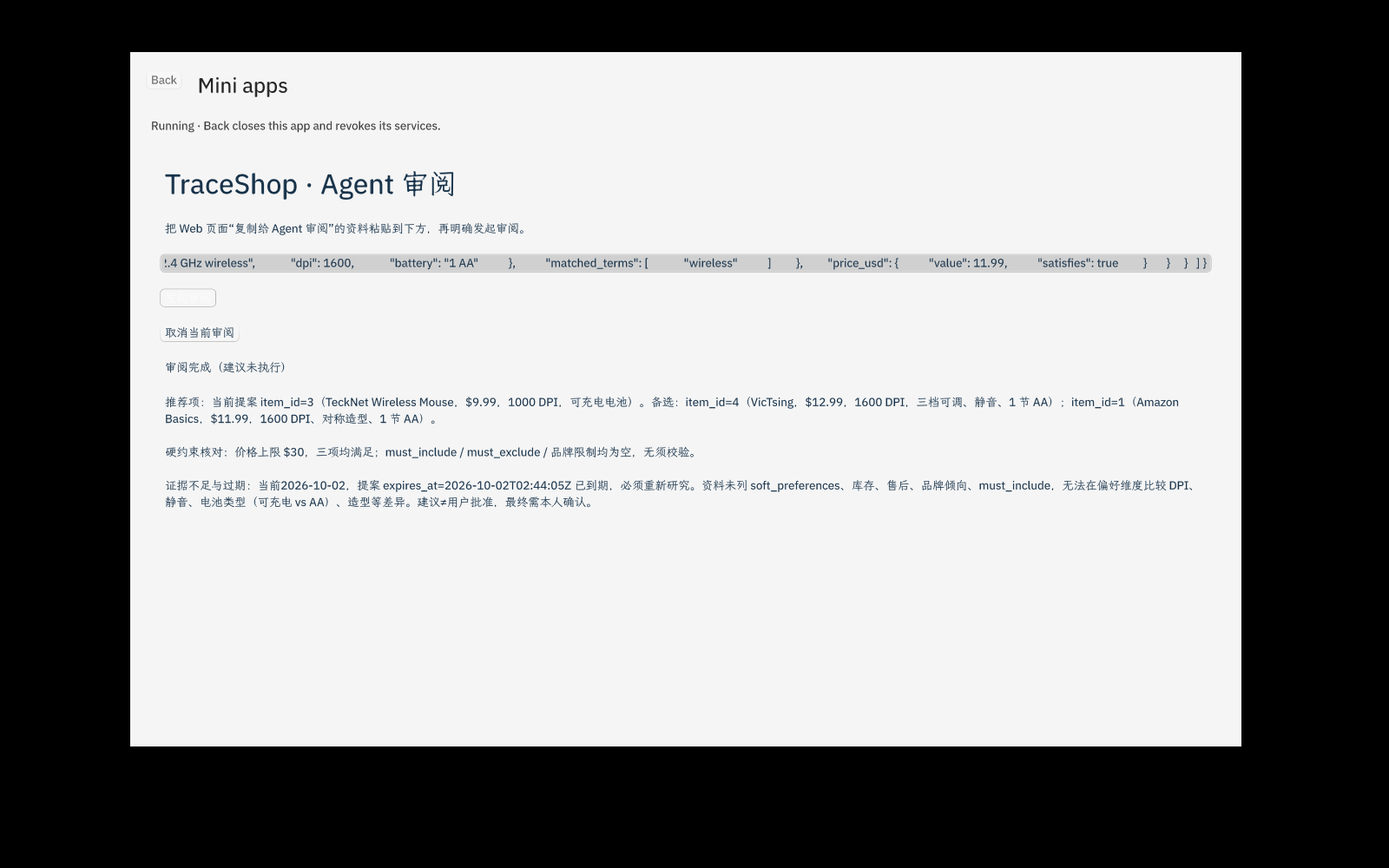
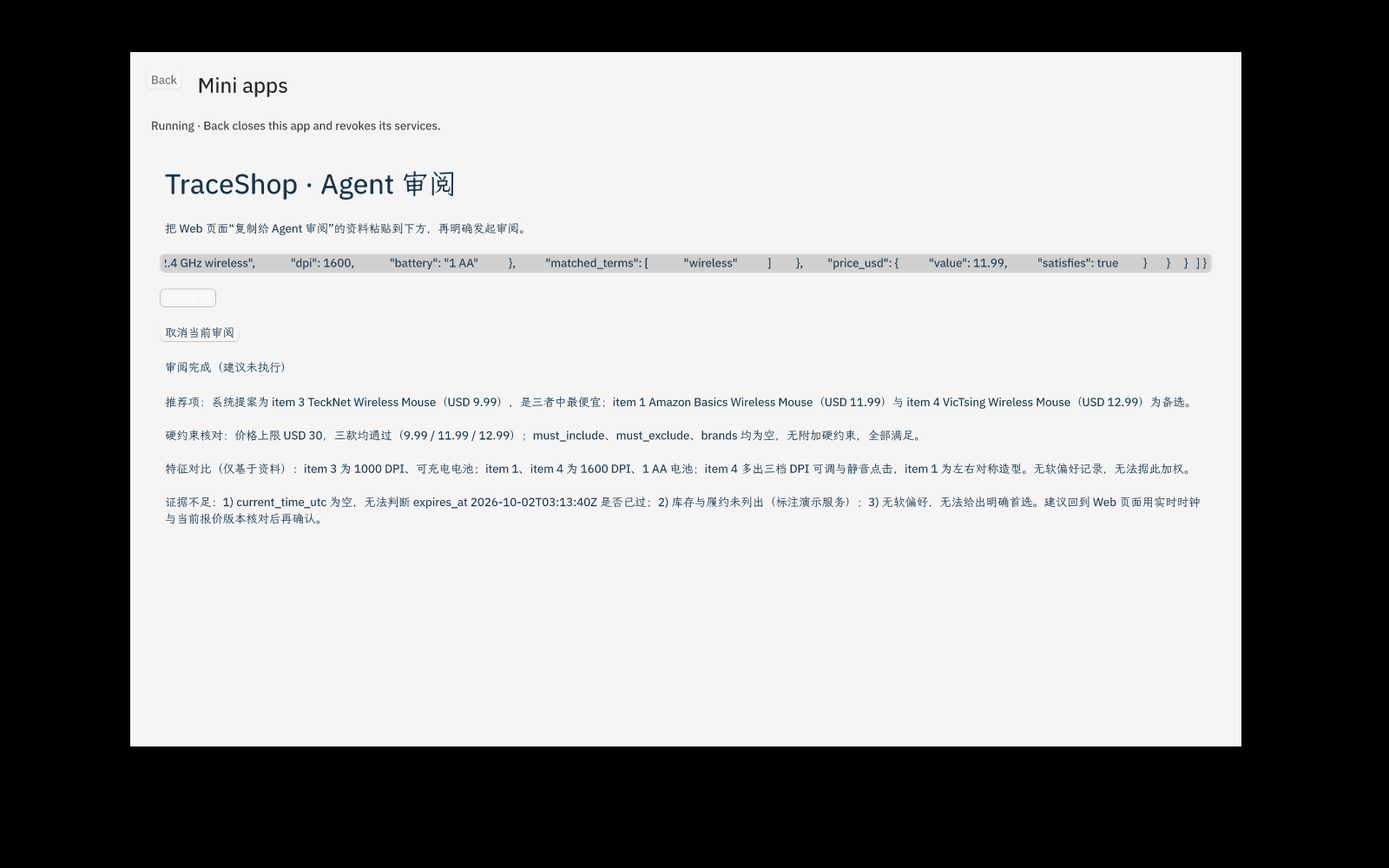
Clarify review timestamps and unset shopping constraints

Changed region(s): [[0.125, 0.434, 0.875, 0.62], [0.375, 0.434, 0.8438, 0.465]]

diff --git a/shop_agent/static/app.js b/shop_agent/static/app.js
@@ -219,6 +219,11 @@
     return data.proposal;
   }
 
+  function utcSecondsIso(epochSeconds) {
+    if (typeof epochSeconds !== "number" || !isFinite(epochSeconds)) return null;
+    return new Date(Math.floor(epochSeconds) * 1000).toISOString().replace(".000Z", "Z");
+  }
+
   function agentReviewExport() {
     var p = agentReviewableProposal();
     if (!p) return null;
@@ -250,6 +255,11 @@
         item_id: p.item_id,
         price_usd: p.price_usd,
         expires_at: p.expires_at_iso
+      },
+      time_context: {
+        proposal_created_at_utc: utcSecondsIso(p.created_at),
+        current_time_utc: null,
+        note: "proposal_created_at_utc 是提案创建时间，不是当前时间；有效期与价格必须回到 Web 页面用实时时钟和当前报价版本核对。"
       },
       candidates: candidates
     };

diff --git a/SUBMISSION.md b/SUBMISSION.md
@@ -10,16 +10,16 @@
 
 ## 一句话
 
-一个证据驱动、可确认、可读回的购物决策 Web 原型：把文字需求变成候选研究、硬约束过滤、可审阅的采购提案、用户明确确认、本地 SQLite 草稿写入与独立读回；报价或库存变化会让旧提案失效并强制重新研究。规则型决策，不产生真实订单。v0.2.0 另附一个**可选、只给建议**的 Rinx 本地 Agent 审阅包。
+一个证据驱动、可确认、可读回的购物决策 Web 原型：把文字需求变成候选研究、硬约束过滤、可审阅的采购提案、用户明确确认、本地 SQLite 草稿写入与独立读回；报价或库存变化会让旧提案失效并强制重新研究。规则型决策，不产生真实订单。v0.2.1 另附一个**可选、只给建议**的 Rinx 本地 Agent 审阅包。
 
 ## 固定版本与一条命令启动
 
-固定源码版本：**v0.2.0**。它保留 v0.1.1（提交 `dcf40f3c`）的确定性 Web 工作流，新增 Web 的“复制给 Agent 审阅”入口、[`native/agent-review/`](native/agent-review/) 导入包与原生实测证据；Web 核心逻辑不变。
+固定源码版本：**v0.2.1**。它保留 v0.1.1（提交 `dcf40f3c`）的确定性 Web 工作流，以及 v0.2.0 新增的“复制给 Agent 审阅”入口与 [`native/agent-review/`](native/agent-review/) 导入包；v0.2.1 在 Web 导出中加入提案创建时间 `time_context.proposal_created_at_utc`（UTC、秒）并显式标注 `current_time_utc: null`，同时修正原生审阅提示对创建/截止/当前时间与空数组的表述。Web 决策与后端逻辑不变。
 
 需要 Python 3.10 或更新版本，仅使用标准库：
 
 ```bash
-git clone --branch v0.2.0 --depth 1 https://github.com/prettygirlisnotme/TraceShop.git
+git clone --branch v0.2.1 --depth 1 https://github.com/prettygirlisnotme/TraceShop.git
 cd TraceShop
 python3 -m shop_agent.server
 ```
@@ -44,13 +44,14 @@ python3 -m shop_agent.server
 
 ## 可选原生 Agent 审阅
 
-Web 页面在研究会话中提供“复制给 Agent 审阅”。用户把复制出的候选、硬/软约束、证据、报价版本和有效期粘贴进 Rinx 导入的 [`native/agent-review/`](native/agent-review/) 包，由用户点击“发起审阅”，得到宿主 `octos` 的**只读文字建议**；之后仍需回到 Web 由用户自己确认或拒绝。
+Web 页面在研究会话中提供“复制给 Agent 审阅”。用户把复制出的候选、硬/软约束、证据、报价版本、有效期与时间上下文粘贴进 Rinx 导入的 [`native/agent-review/`](native/agent-review/) 包，由用户点击“发起审阅”，得到宿主 `octos` 的**只读文字建议**；之后仍需回到 Web 由用户自己确认或拒绝。
 
[2 lines of base64/hex data omitted]
 
+- 导出含 `time_context`：`proposal_created_at_utc` 是服务端已有的提案创建时间（UTC、秒），`current_time_utc` 显式为 `null`，不伪造当前时钟。审阅提示区分**创建时间、截止时间与当前时间**，并说明空数组表示“用户未设置该项”，不是资料缺失。
 - 这是 **standalone Rinx 自己的本地 Agent peer**，**不是**宿主注入的 OctoSense System Agent，也不是 Web URL 卡片的自动 bridge，未经签名或 App Hub 上架。
 - Web 核心保持确定性、默认零出站；只有用户明确确认才会写入本地草稿，不存在自动批准。
-- 模型建议可能出错：实测中它把一个 02:44:05Z 才到期、且作业运行于 02:28–02:30Z 的提案描述为“已过期”，也把明确为空的字段描述为缺失。这是**建议文本的已知局限**，不是质量或准确率成功。权威判断仍是 Web 的确定性时钟/版本检查。
+- 模型建议仍可能出错：v0.2.1 提示修正后，本次实测不再把未过期提案判为“已过期”，也不再把明确为空的字段说成缺失，回复还提示用户回 Web 用实时时钟与报价版本核对后再确认。但这是**单次用例改善，不是稳定的准确率成功**，且回复仍长于请求的 300 字。权威判断始终是 Web 的确定性时钟/版本检查。历史 v0.2.0 的误判保留在[不可变标签](https://github.com/prettygirlisnotme/TraceShop/blob/v0.2.0/evidence/agent-review-checks.json)。
 
 证据：[原生审阅结果](evidence/agent-review-result.png) · [assistant 关闭的真实错误](evidence/agent-review-off.png) · [导出截图](evidence/agent-review-export.png) · [浏览器导出检查 JSON](evidence/agent-review-browser-checks.json) · [原生审阅 aggregate JSON](evidence/agent-review-checks.json)。
 
@@ -83,8 +84,8 @@ Web 卡片使用 `rs.robius.robrix.mini_app` 消息类型，内容示例见 [dem
 
 ## 验证证据
 
-- 原生 Agent 审阅（作业 **180045**，2026-10-02，CPU-only，约 2 分钟，COMPLETED 0:0）：固定 Rinx SHA-256 `60431b16…29a720` 与固定 `octos` 内核；Web 导出字段逐项匹配、复制不新增草稿；原生导入 stamped bundle、能力与无 room 校验、assistant OFF 真实错误、本机 provider 下 `session.open`/`turn.start` 真实回调完成、源码与锁未改。脱敏 aggregate 见 [evidence/agent-review-checks.json](evidence/agent-review-checks.json)。汇总见 [docs/VALIDATION.md](docs/VALIDATION.md)。
-- 公开目录复验（作业 **180053**，2026-10-02，CPU-only，6 秒，COMPLETED 0:0）：对 **v0.2.0 公开检出**以 `python -I -S -B` 运行标准库 11 项检查与回环 HTTP 闭环（研究 / 显式确认 / 独立读回 / 幂等 / 拒绝 409 / 报价变化 409），全部通过。见 [evidence/public-checks.json](evidence/public-checks.json)。此前 v0.1.1 的同一复验为作业 **178861**（2026-10-01，12 秒），结果一致。
+- 原生 Agent 审阅（作业 **180063**，2026-10-02，v0.2.1，CPU-only，1 分 52 秒，COMPLETED 0:0）：沿用未修改的固定 Rinx SHA-256 `60431b16…29a720` 与固定 `octos` 内核（`2.0.3-rc.13`）；Web 导出字段逐项匹配并新增 `time_context` 检查（`export_time_context_created_matches`、`export_time_context_current_null`）、复制不新增草稿；原生导入 stamped bundle `0.2.1`、能力与无 room 校验、assistant OFF 真实错误、本机 provider 下 `session.open`/`turn.start` 真实回调完成、源码与锁未改。脱敏 aggregate 见 [evidence/agent-review-checks.json](evidence/agent-review-checks.json)。此前同组合的 v0.2.0 运行为作业 180045。汇总见 [docs/VALIDATION.md](docs/VALIDATION.md)。
+- 公开目录复验（作业 **180053**，2026-10-02，CPU-only，6 秒，COMPLETED 0:0）：对 **v0.2.0 公开检出**以 `python -I -S -B` 运行标准库 11 项检查与回环 HTTP 闭环（研究 / 显式确认 / 独立读回 / 幂等 / 拒绝 409 / 报价变化 409），全部通过。v0.2.1 仅改 Web 导出与原生包、后端与 `vendor/` 未变，故沿用该基线，未新跑单元作业。见 [evidence/public-checks.json](evidence/public-checks.json)。此前 v0.1.1 的同一复验为作业 **178861**（2026-10-01，12 秒），结果一致。
 - 私有集群宿主工作流实测（作业 **178695**）：固定旧宿主独立编译，私有回环合成 fixture，10 项结构化检查通过。见 [evidence/workflow-checks.json](evidence/workflow-checks.json)。
 - 汇总说明：[docs/VALIDATION.md](docs/VALIDATION.md)。
 

diff --git a/README.md b/README.md
@@ -2,7 +2,7 @@
 
 购物决策与回执小程序。输入需求后，比较候选商品和目录证据；确认后保存采购草稿，读回核对结果，再由用户把回执带回聊天。报价或库存发生变化时，旧提案失效，需要重新研究和确认。
 
-> **初赛作品入口：[SUBMISSION.md](SUBMISSION.md)** — 场景、任务、固定版本、材料链接、验证证据与已知边界。当前材料版本 v0.2.0。
+> **初赛作品入口：[SUBMISSION.md](SUBMISSION.md)** — 场景、任务、固定版本、材料链接、验证证据与已知边界。当前材料版本 v0.2.1。
 
 - 队伍：**TraceShop**
 - 唯一成员 ID：**TraceShop-Felix**（微信群昵称）
@@ -14,7 +14,7 @@
 需要 Python 3.10 或更新版本，仅使用标准库。Web 核心保持确定性，不发起出站请求。
 
 ```bash
-git clone --branch v0.2.0 --depth 1 https://github.com/prettygirlisnotme/TraceShop.git
+git clone --branch v0.2.1 --depth 1 https://github.com/prettygirlisnotme/TraceShop.git
 cd TraceShop
 python3 -m shop_agent.server
 ```
@@ -42,13 +42,15 @@ python3 -m unittest discover -s tests -v
 
 Web 卡片使用 `rs.robius.robrix.mini_app` 消息类型。[消息示例](demo/robrix2-card.example.json)与[复现步骤](docs/REPRODUCING.md)说明如何在兼容宿主打开本机地址。
 
-官网示例链接的历史宿主提交 `05daf9bdb05fafc6d8f04dcb312a35f1d46a661e` 已在 Linux 测试：发送卡片、打开应用、确认草稿、读回、复制，再通过宿主发送回执。浏览器使用透明的 headless URL 打开器适配器；截图和浏览器录像分别提供。11 项标准库检查与 10 项宿主工作流检查通过，v0.2.0 公开检出复验（作业 180053）也通过，详见[验证记录](docs/VALIDATION.md)。
+官网示例链接的历史宿主提交 `05daf9bdb05fafc6d8f04dcb312a35f1d46a661e` 已在 Linux 测试：发送卡片、打开应用、确认草稿、读回、复制，再通过宿主发送回执。浏览器使用透明的 headless URL 打开器适配器；截图和浏览器录像分别提供。11 项标准库检查与 10 项宿主工作流检查通过；v0.2.0 公开检出复验（作业 180053，11 项检查 + HTTP）也通过。v0.2.1 只改 Web 导出与原生审阅包，后端与 `vendor/` 未变，故沿用该单元基线。详见[验证记录](docs/VALIDATION.md)。
 
-## 可选原生 Agent 审阅（v0.2.0）
+## 可选原生 Agent 审阅（v0.2.1）
 
-固定 Rinx（`5a9e2af`）与官方打包的 `octos`（`2.0.3-rc.13`）已在受限测试环境实测：Discover → Mini apps → Import 导入 [`native/agent-review/`](native/agent-review/)（stamped bundle **0.2.0**，BLAKE3 `41410f5e…`），Review 仅显示 `octos.session.open`、`octos.turn.start`、`octos.turn.interrupt` 且无 room。Run 后由用户手动粘贴 Web 导出的候选/约束/证据/报价版本/有效期；assistant 关闭时显示真实宿主错误，配置本机 provider 后 `session.open` 与 `turn.start` 经真实 Splash 回调返回非空建议，终态标签为“审阅完成（建议未执行）”。证据：[结果](evidence/agent-review-result.png) · [assistant 关闭](evidence/agent-review-off.png) · [导出](evidence/agent-review-export.png) · [浏览器导出检查](evidence/agent-review-browser-checks.json)。
+固定 Rinx（`5a9e2af`）与官方打包的 `octos`（`2.0.3-rc.13`）已在受限测试环境实测：Discover → Mini apps → Import 导入 [`native/agent-review/`](native/agent-review/)（stamped bundle **0.2.1**，BLAKE3 `3051f8f0…`），Review 仅显示 `octos.session.open`、`octos.turn.start`、`octos.turn.interrupt` 且无 room。Run 后由用户手动粘贴 Web 导出的候选/约束/证据/报价版本/有效期；assistant 关闭时显示真实宿主错误，配置本机 provider 后 `session.open` 与 `turn.start` 经真实 Splash 回调返回非空建议，终态标签为“审阅完成（建议未执行）”。证据：[结果](evidence/agent-review-result.png) · [assistant 关闭](evidence/agent-review-off.png) · [导出](evidence/agent-review-export.png) · [浏览器导出检查](evidence/agent-review-browser-checks.json)。
 
-这是 **standalone Rinx 自己的本地 Agent peer**：不是宿主注入的 OctoSense System Agent，不是 Web URL 卡片的自动 bridge，未经签名或 App Hub 上架。Web 核心保持确定性、默认零出站；只有用户在 Web 明确确认才会写入本地草稿，Agent 建议不会自动批准。模型建议仅为文本，可能出现错误（实测中它把未过期的提案描述为已过期，也把明确为空的字段描述为缺失）；权威判断仍是 Web 的确定性有效期与版本检查。
+**时间上下文**：v0.2.1 的导出新增 `time_context`。`proposal_created_at_utc` 取服务端已有的提案创建时间（UTC、秒），`current_time_utc` 显式为 `null`——不伪造当前时钟。审阅提示区分**创建时间、截止时间与当前时间**，并说明空数组表示“用户未设置该项”，不是资料缺失。请勿把创建时间或 `expires_at` 当作当前时间。
+
+这是 **standalone Rinx 自己的本地 Agent peer**：不是宿主注入的 OctoSense System Agent，不是 Web URL 卡片的自动 bridge，未经签名或 App Hub 上架。Web 核心保持确定性、默认零出站；只有用户在 Web 明确确认才会写入本地草稿，Agent 建议不会自动批准。模型建议仅为文本，仍可能出错；权威判断是 Web 的确定性有效期与版本检查。v0.2.1 提示修正后，本次实测不再把未过期提案判为已过期，也不再把空数组说成缺失——这是单次用例改善，不等于稳定的模型准确率（见[历史 v0.2.0 误判记录](https://github.com/prettygirlisnotme/TraceShop/blob/v0.2.0/evidence/agent-review-checks.json)）。
 
 宿主与内核二进制需另外准备，不在 TraceShop 源码包中。
 

diff --git a/docs/VALIDATION.md b/docs/VALIDATION.md
@@ -3,17 +3,19 @@
 本仓库区分几类证据：随包可自行运行的标准库检查、公开检出目录的复验、交付包在隔离环境中的验收、
 私有集群内的宿主工作流实测，以及可选的 Rinx 原生 Agent 审阅。它们证明的范围不同，不能互相替代。
 
-## 1. 原生 Agent 审阅（作业 180045，2026-10-02）
+## 1. 原生 Agent 审阅（作业 180063，2026-10-02，v0.2.1）
 
-CPU-only，约 2 分钟，COMPLETED 0:0。使用**未修改**的固定 Rinx（`5a9e2af`，二进制 SHA-256
+CPU-only，1 分 52 秒（112 秒），COMPLETED 0:0。使用**未修改**的固定 Rinx（`5a9e2af`，二进制 SHA-256
[1 lines of base64/hex data omitted]
 内核（`fe08d8e…`，`2.0.3-rc.13`），真实浏览器导出与原生 Rinx 导入在同一次作业内闭环：
 
 - 浏览器导出检查：研究 200、复制不新增草稿、导出字段逐项匹配（候选 3 条、硬/软约束、报价版本、
-  有效期）、报价变化后旧导出被清除、新研究可再导出、无禁止字段、无页面错误
+  有效期），并新增 `time_context` 校验——`proposal_created_at_utc` 与服务端一致、`current_time_utc`
+  为 `null`（`export_time_context_created_matches`、`export_time_context_current_null`）；报价变化后
+  旧导出被清除、新研究可再导出、无禁止字段、无页面错误
   （[agent-review-browser-checks.json](../evidence/agent-review-browser-checks.json)）。
-- 原生导入：stamped bundle `0.2.0`（BLAKE3
[1 lines of base64/hex data omitted]
+- 原生导入：stamped bundle `0.2.1`（BLAKE3
[1 lines of base64/hex data omitted]
   `octos.session.open`、`octos.turn.start`、`octos.turn.interrupt`，无 room。
 - assistant 关闭时返回真实宿主错误 `The assistant is off. Choose this device or a server in the assistant settings.`
 - 经真实宿主 UI 配置本机 provider（CN `minimax-cn`，`MiniMax-M3`）后，`session.open` 与 `turn.start`
@@ -23,8 +25,14 @@ CPU-only，约 2 分钟，COMPLETED 0:0。使用**未修改**的固定 Rinx（`5
   [agent-review-checks.json](../evidence/agent-review-checks.json)。
 
 **边界**：这是 standalone Rinx 的本地 Agent peer，不是宿主注入的 OctoSense System Agent，也不是 Web
-的自动 bridge；未经签名或 App Hub 上架。模型建议可能出现错误（本次把未过期提案描述为已过期，也把空字段
-描述为缺失）；权威判断仍是 Web 的确定性有效期与版本检查。
+的自动 bridge；未经签名或 App Hub 上架。模型建议可能出现错误，权威判断仍是 Web 的确定性有效期与版本
+检查。v0.2.1 提示明确区分创建/截止/当前时间、并说明空数组表示“用户未设置”后，本次回复不再把未过期
+提案判为过期、也不再把空数组说成缺失，并主动提示回 Web 用实时时钟与报价版本核对；但这是**单次用例
+改善，不是稳定的准确率成功**，回复仍长于请求的 300 字。
+
+此前同组合的 v0.2.0 运行为作业 **180045**（2026-10-02，约 124 秒），当时模型把未过期提案描述为“已过期”、
+把空字段描述为缺失。该误判作为历史保留在
+[v0.2.0 的 agent-review-checks.json](https://github.com/prettygirlisnotme/TraceShop/blob/v0.2.0/evidence/agent-review-checks.json)。
 
 ## 2. 公开检出目录复验（作业 180053，2026-10-02）
 
@@ -32,6 +40,9 @@ CPU-only，6 秒，COMPLETED 0:0。对 **v0.2.0 公开目录**使用系统 Pytho
 标准库导入、11 项检查及 HTTP 确认/读回/幂等/拒绝/报价变化路径全部通过；自测服务已停止。摘要见
 [public-checks.json](../evidence/public-checks.json)。同一复验此前也用于 v0.1.1（作业 **178861**，
 2026-10-01，12 秒，结果一致）。
+
+v0.2.1 只改 Web 导出与原生审阅包，后端与 `vendor/` 未变，因此该 11 项检查 + HTTP 基线继续适用；未为
+v0.2.1 新跑单元作业。v0.2.1 改动的 Web 导出与原生路径由作业 **180063** 直接验证（见第 1 节）。
 
 ## 3. 随包标准库检查（任何人可复跑）
 
@@ -71,5 +82,7 @@ python3 -m unittest discover -s tests -v
   主办方受理或晋级结果。
 - 原生 Agent 审阅针对固定 Rinx `5a9e2af` 与固定 `octos`；不承诺最新移动中的 main、Windows 或其它
   未测试平台。
+- 模型建议只是只读文本，仍可能在其它用例出错；180063 的时间/空数组表述改善仅覆盖一次用例，不代表
+  稳定的模型准确率。Web 的确定性时钟与版本检查始终是权威。
 - 「Open in browser」经由透明 headless URL 打开器适配器完成，不是桌面默认 GUI 浏览器。
 - 本包不包含历史目录、模型、数据库、凭据或认证日志；随包目录为自编合成数据。

diff --git a/docs/DEVELOPMENT.md b/docs/DEVELOPMENT.md
@@ -14,7 +14,7 @@
 - `shop_agent/store.py`：`Store` 封装 SQLite。表级操作包括 session、proposal、reservation、quote、
   event；所有读取都经 `_loads`/行映射，写入用参数化 SQL。
 - `shop_agent/static/`：`index.html` + `style.css` + `app.js`，纯前端状态机，调用上述 JSON API；
-  其中“复制给 Agent 审阅”只导出候选/约束/证据/版本/有效期到剪贴板，不调用 `octos`、不创建草稿。
+  其中“复制给 Agent 审阅”把候选/约束/证据/版本/有效期与 `time_context`（提案创建时间 UTC、`current_time_utc` 为 `null`）导出到剪贴板，不调用 `octos`、不创建草稿。
 - `native/agent-review/`：可选的 Rinx 本地导入包（`main.splash` + `manifest.json` + `README.md`），
   与 Web 服务相互独立，不由 `server.py` 加载。
 - `vendor/project_a/`：可复用的 CPU 检索管线（受限解析、硬约束、BM25 排序、证据 guard、可选 CLIP
@@ -50,14 +50,15 @@ python3 -m shop_agent.server                       # 起服务后手动走查
 - Web 决策层是确定性规则策略与受限解析，不是通用 LLM，也不连接任何外部 octos / LLM 服务，默认零出站。
 - 可选的原生 Agent 审阅把用户主动复制的资料发送到**宿主配置的 provider**；它只给建议、不自动批准，
   且为独立 Rinx 本地 peer，未经签名或 App Hub 上架。
-- 模型建议可能出错；Web 的确定性有效期/版本检查才是权威。
+- 模型建议仍可能出错；v0.2.1 提示修正只改善了创建/截止/当前时间与空数组的表述（180063 单次用例），Web 的确定性有效期/版本检查才是权威。
 - 库存/报价变更为演示事件；历史目录价格不是实时报价。
 - 图片入口在后端资源缺失时保持禁用；图片相关性未验证。
 - 公开交付重点是源码与可运行页面；本机回环服务不是公网服务器。
 
 ## 下一步优先级
 
-固定 Rinx `5a9e2af` + 固定 `octos` 的原生审阅已闭环（见 [VALIDATION.md](VALIDATION.md)）。下一个有意义的改进是
-在导出与审阅提示中带上**可信的 UTC 时间**，并增加对模型建议的质量检查，减少“提案已过期/字段缺失”一类
-误判。部署为公网服务或提供稳定公共 URL 仍未做。现有 Web 原型作为可复现载体保持不变；文档只描述当前
-确实存在的 API，不预先编造接口。
+固定 Rinx `5a9e2af` + 固定 `octos` 的原生审阅已在 v0.2.1 复验（作业 180063，见 [VALIDATION.md](VALIDATION.md)）。
+提案创建时间现在由后端真实时间携带（`time_context.proposal_created_at_utc`），当前时间显式为未知；
+下一步优先是在**短视频**中演示一次真实审阅，并在预算允许时多测几个用例，而不是继续重构或补基础设施。
+部署为公网服务或提供稳定公共 URL 仍未做。现有 Web 原型作为可复现载体保持不变；文档只描述当前确实
+存在的 API，不预先编造接口。

diff --git a/docs/REPRODUCING.md b/docs/REPRODUCING.md
@@ -35,7 +35,7 @@ python3 -m unittest discover -s tests -v
 
 Web 页面研究会话中的“复制给 Agent 审阅”把候选、约束、证据、报价版本与有效期导出到剪贴板。要把它交给宿主 `octos`，需要一个能导入本地 mini-app 的 Rinx，并自行准备官方打包的 `octos` 内核。
 
-导入目录就是仓库内的 [`native/agent-review/`](../native/agent-review/)（`README.md` + `main.splash` + `manifest.json`）。在 Rinx 中走 **Discover → Mini apps → Import**，选中该目录，Review 后 Run。`manifest.json` 的 `integrity.bundle_blake3` 必须由官方打包工具生成；**修改包里任何文件后都必须重新用官方工具盖章**，不能手填校验值。
+导入目录就是仓库内的 [`native/agent-review/`](../native/agent-review/)（`README.md` + `main.splash` + `manifest.json`，本仓库记录的 stamped 版本为 **0.2.1**）。在 Rinx 中走 **Discover → Mini apps → Import**，选中该目录，Review 后 Run。`manifest.json` 的 `integrity.bundle_blake3` 必须由官方打包工具生成；**修改包里任何文件后都必须重新用官方工具盖章**，不能手填校验值（本仓库 manifest 保持空占位，实际导入使用作业返回的 stamped 副本）。
 
 本仓库记录的固定组合是：
 
@@ -64,10 +64,11 @@ python3 tools/package-octos.py desktop --kernel /absolute/path/to/octos --app-bi
 - **standalone Rinx，用自己的本地 Agent peer**：不是宿主注入的 OctoSense System Agent，也不是 Web URL 卡片的自动 bridge，未经签名或 App Hub 上架。
 - provider/model/密钥在**宿主自己的 UI**里配置（例如 “Use this device” 表单），由宿主写成规范 profile；TraceShop 应用不接收、不保存密钥。密钥应由使用者本人提供，无需发给任何人。
 - Web 页面不会自动调用 `octos`；必须由用户手动复制、粘贴并明确点击发起审阅。返回的只是文字建议，仍由用户在 Web 确认或拒绝。
+- Web 导出含 `time_context`：`proposal_created_at_utc` 是服务端提案创建时间（UTC、秒），`current_time_utc` 为 `null`。审阅提示据此区分创建时间、截止时间与当前时间，并说明空数组表示“用户未设置该项”。不要据此断言当前是否过期，需回 Web 用实时时钟与报价版本核对。
 - 这是**精确固定提交**的复现，不承诺最新移动中的 main，也不承诺 Windows 或其它未测试平台。
 - Linux 上若 `XDG_RUNTIME_DIR` 缺失或其 socket 路径过长，Octos 可能启动失败；请使用已存在、路径短、权限 0700 且归当前用户所有的运行时目录，数据目录保持单独配置。
 
-该组合的实测证据见 [VALIDATION.md](VALIDATION.md#1-原生-agent-审阅作业-1800452026-10-02) 与 `evidence/`。
+该组合的实测证据见 [VALIDATION.md](VALIDATION.md) 第 1 节（作业 180063，v0.2.1）与 `evidence/`。
 
 ## 历史宿主版本
 
